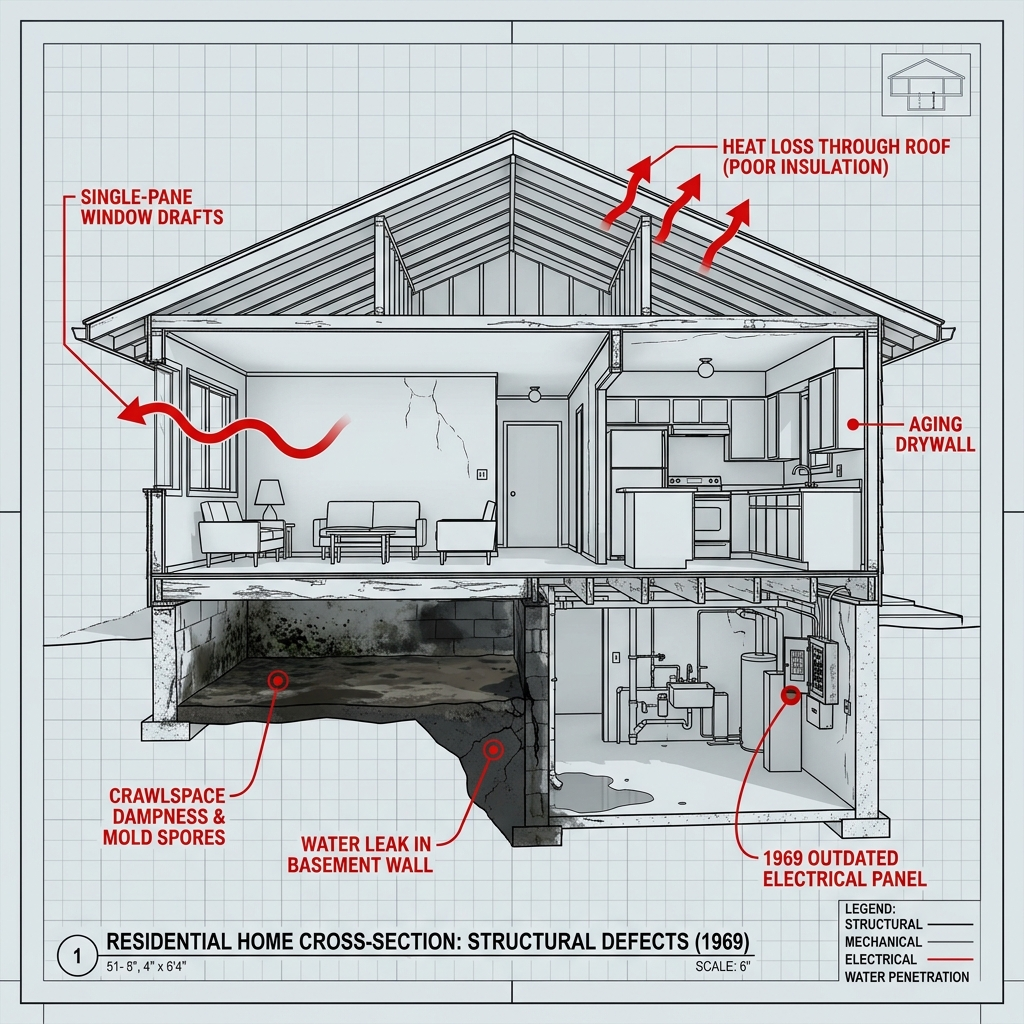
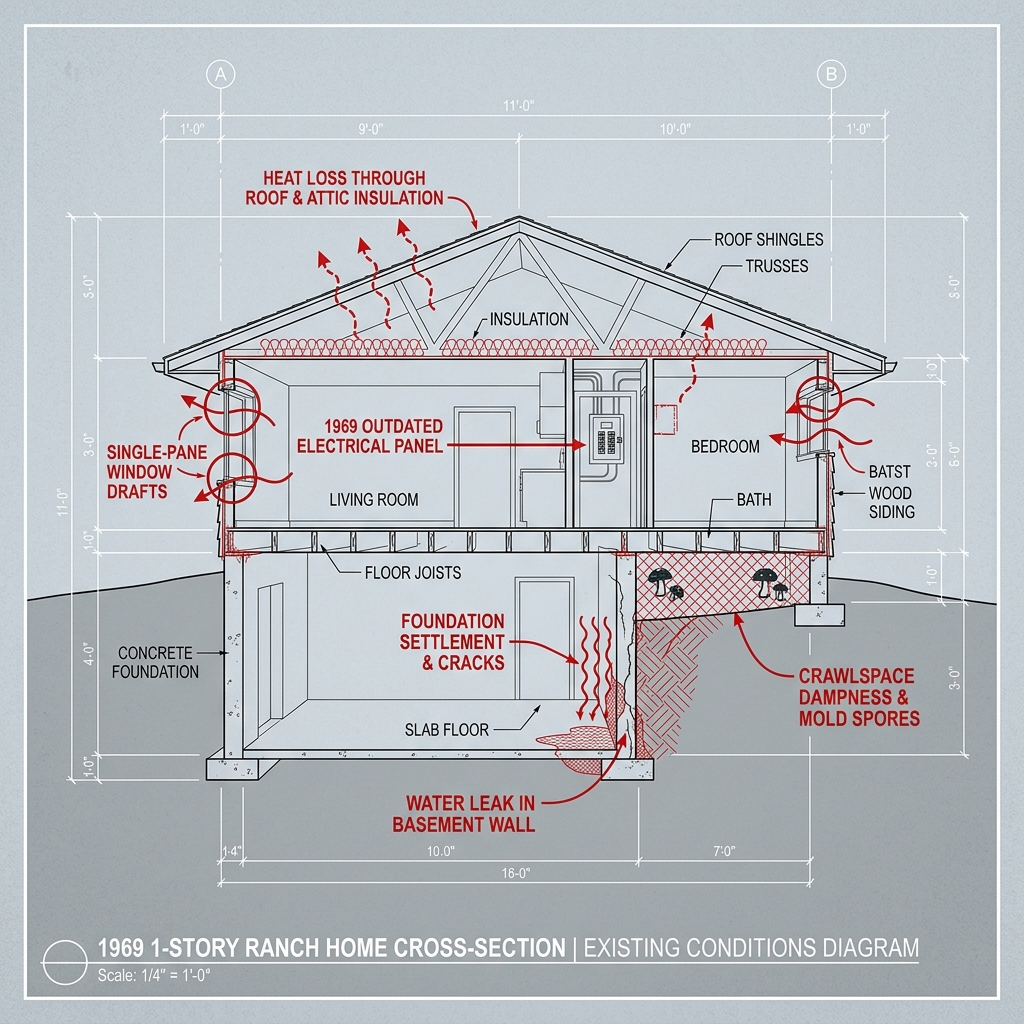
Update Zillow profile URL to 14584916 and replace visual schematics with 1-story ranch with walkout basement blueprints

diff --git a/index.html b/index.html
@@ -1078,10 +1078,10 @@
                     <div>
                         <h4 style="font-family: 'Outfit', sans-serif; font-size: 13px; font-weight: 700; color: var(--invoice-text); margin: 0;">Zillow Real Estate Data Verification</h4>
                         <p style="font-size: 11px; color: var(--invoice-text-muted); margin: 4px 0 0;">
-                            Verify tax history, previous listing photos, and neighborhood sales comparables directly on Zillow (Property ID: 14605963).
+                            Verify tax history, previous listing photos, and neighborhood sales comparables directly on Zillow (Property ID: 14584916).
                         </p>
                     </div>
-                    <a href="https://www.zillow.com/homedetails/2277-N-Peachtree-Way-Dunwoody-GA-30338/14605963_zpid/" target="_blank" class="primary-btn" style="text-decoration: none; display: inline-flex; align-items: center; gap: 6px; font-size: 11px; padding: 8px 16px; background-color: #3b82f6; border-color: #3b82f6;">
+                    <a href="https://www.zillow.com/homedetails/2277-N-Peachtree-Way-Atlanta-GA-30338/14584916_zpid/" target="_blank" class="primary-btn" style="text-decoration: none; display: inline-flex; align-items: center; gap: 6px; font-size: 11px; padding: 8px 16px; background-color: #3b82f6; border-color: #3b82f6;">
                         <span>🌐</span> View Zillow Profile
                     </a>
                 </div>